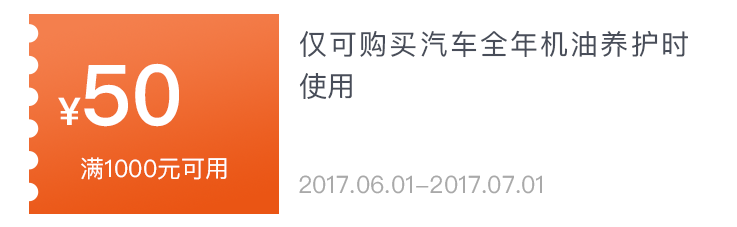
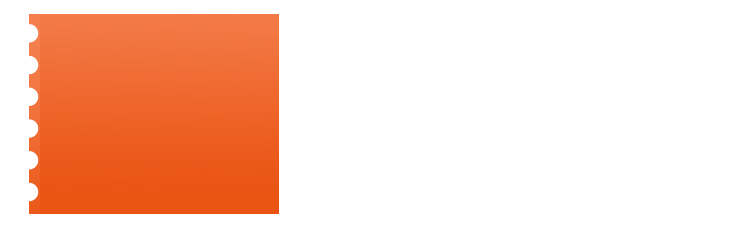
1

diff --git a/wechat/web/main/icenter/discount/discount_data.js b/wechat/web/main/icenter/discount/discount_data.js
@@ -7,4 +7,57 @@ $(function() {
 		例：$('#文件夹名_文件名 button.button')
 
 	*/
+	$$.post("http://api.cheshili.com.cn/CSL/User/QueryValueVoucherJson",
+		{},
+		function(txt){
+			if(txt.Status==0){
+				var useList=txt.Data.Status0;
+				var node="";
+				var data="";
+
+				var haveList=txt.Data.Status1;
+				var useNode="";
+				var useData="";
+
+				var dateList=txt.Data.Status2;
+				var dateNode="";
+				var dateData="";
+				
+				for(var i=0;i<useList.length;i++){
+					data=JSON.parse(useList[i].DataVoucherData);
+					node+='<div class="oneDiscount first">'+
+                '<img src="images/discount/50discount.png">'+
+                '<p class="discountMoney">￥'+data.Discount+'</p>'+
+                '<p class="discountAbove">满'+data.AboveNum+'元可用</p>'+
+                '<p class="discountDiscri">'+data.Descri+'</p>'+
+                '<p class="discountTime">'+$$.timeToStr(data.TimeStart)+'至'+$$.timeToStr(data.TimeEnd)+'</p>'+
+                '</div>';
+				}
+
+				for(var i=0;i<haveList.length;i++){
+					useData=JSON.parse(haveList[i].DataVoucherData);
+					useNode+='<div class="oneDiscount first">'+
+                '<img src="images/discount/haveUse.png">'+
+                '<p class="discountMoney">￥'+useData.Discount+'</p>'+
+                '<p class="discountAbove">满'+useData.AboveNum+'元可用</p>'+
+                '<p class="discountDiscri">'+useData.Descri+'</p>'+
+                '<p class="discountTime">'+$$.timeToStr(useData.TimeStart)+'至'+$$.timeToStr(useData.TimeEnd)+'</p>'+
+                '</div>';
+				}
+
+				for(var i=0;i<dateList.length;i++){
+					dateData=JSON.parse(dateList[i].DataVoucherData);
+					dateNode+='<div class="oneDiscount first">'+
+                '<img src="images/discount/haveDate.png">'+
+                '<p class="discountMoney">￥'+dateData.Discount+'</p>'+
+                '<p class="discountAbove">满'+dateData.AboveNum+'元可用</p>'+
+                '<p class="discountDiscri">'+dateData.Descri+'</p>'+
+                '<p class="discountTime">'+$$.timeToStr(dateData.TimeStart)+'至'+$$.timeToStr(dateData.TimeEnd)+'</p>'+
+                '</div>';
+				}
+
+
+				$page.find(".canUse").append(node);
+			}
+	});
 });

diff --git a/wechat/web/main/icenter/discount/discount_view.js b/wechat/web/main/icenter/discount/discount_view.js
@@ -1,38 +1,37 @@
 $(function() {
-	var $page = $('#icenter_discount'),
-    pageStr = 'icenter_discount';
-	/*
-		选择器要加上 #文件夹名_文件名
-		例：$('#文件夹名_文件名 button.button')
+    var $page = $('#icenter_discount'),
+        pageStr = 'icenter_discount';
+    /*
+    	选择器要加上 #文件夹名_文件名
+    	例：$('#文件夹名_文件名 button.button')
 
-		所有事件绑定到 $('#文件夹名_文件名')下
-		例子如下
-	*/
-	$$.setGoBack($page.find('div.header >a'));
-	
-	function loadDiscount(){
-			//获取内容
-			var contentIndex=$("#icenter_discount .navContent").children();
-			
-			//获取nav标签
-			var li=$("#icenter_discount  .nav ul li");
-			
-			//给每个li赋值index指向li的顺序数，通过顺序数改变内容的显示
-			for(var i=0;i<li.length;i++){
-				li[i].index=i;
-				li[i].onclick=function(){
-					for(var j=0;j<li.length;j++){
-						li[j].className="off";
-						contentIndex[j].style.display="none";
-						}
-					li[this.index].className="on";
-					contentIndex[this.index].style.display="block";
-					}
-				}	
-		}
+    	所有事件绑定到 $('#文件夹名_文件名')下
+    	例子如下
+    */
+    $page.find('div.header >a').click(function(){
+    	$$.redirect("icenter_pageHome.html");
+    });
 
-	loadDiscount();
+    function loadDiscount() {
+        //获取内容
+        var contentIndex = $("#icenter_discount .navContent").children();
+
+        //获取nav标签
+        var li = $("#icenter_discount  .nav ul li");
+
+        //给每个li赋值index指向li的顺序数，通过顺序数改变内容的显示
+        for (var i = 0; i < li.length; i++) {
+            li[i].index = i;
+            li[i].onclick = function() {
+                for (var j = 0; j < li.length; j++) {
+                    li[j].className = "off";
+                    contentIndex[j].style.display = "none";
+                }
+                li[this.index].className = "on";
+                contentIndex[this.index].style.display = "block";
+            };
+        }
+    }
+
+    loadDiscount();
 });
-
-	
-

diff --git a/wechat/web/main/icenter/logout/logout.css b/wechat/web/main/icenter/logout/logout.css
@@ -5,42 +5,37 @@
 	height: 100%;
 	background-color: #F0EFF5;
 }
+
 #icenter_logout header{
 	width: 100%;
-	height: 16vw;
+	height: 10vw;
 	background-color: #fff;
-	overflow: hidden;
-	position: relative;
+	text-align: center;
+	line-height: 10vw;
 }
+
 #icenter_logout header img{
 	width: 6.93vw;
-	height: 6.93vw;
-	display: inline-block;
-	margin: 4vw 0px 0px 5.33vw;
+	position: absolute;
+	left: 3vw;
+	top:1.5vw;
 }
+
 #icenter_logout header span{
-	display: inline-block;
-	font-size: 5.87vw;
-	font-family: "黑体";
+	font-size: 4.8vw;
 	color: #4E4D53;
-	vertical-align: top;
-    margin: 4.06vw 0px 0px 31vw;
 }
+
 #icenter_logout .photo_updata{
 	margin-top: 5.33vw;
 	margin-bottom: 3.33vw;
 	width: 100%;
-	height: 16vw;
+	height: 12vw;
 	background-color: #fff;
+	line-height: 12vw;
+    padding-left: 3vw;
 }
 #icenter_logout .redit_password{
-	width: 100%;
-	height: 16vw;
-	background-color: #fff;
-	overflow: hidden;
-	border-top: 1px solid #eee;
-}
-#icenter_logout .smart_word{
 	width: 100%;
 	height: 16vw;
 	background-color: #fff;
@@ -54,17 +49,15 @@
 	margin: 5.07vw 0px 0px 2.67vw;	
 }
 #icenter_logout .span_updata_1{
-	vertical-align: top;
-	display: inline-block;
-	font-size: 18px;
-	margin: 5.33vw 0px 0px 2.67vw;
+	font-size: 4vw;
+	margin: 3vw 0px 0px 2.67vw;
 }
 #icenter_logout .right_copy{
 	width: 2.67vw;
 	height: 4.27vw;
 	display: block;
 	float: right;
-	margin: 5.33vw 5.33vw 0px 0px;	
+	margin: 3.6vw 5.33vw 0px 0px;	
 }
 #icenter_logout .right_copy_2{
 	width: 2.67vw;
@@ -83,7 +76,7 @@
 	border: none;
 	outline: none;
 	position: absolute;
-	top: 50%;	
+	top: 20%;	
 	left: 5%;
 }
 #icenter_logout .logout_but_out{

diff --git a/wechat/web/main/icenter/logout/logout_view.js b/wechat/web/main/icenter/logout/logout_view.js
@@ -1,37 +1,4 @@
 
 !(function(){
-	$('.logout_but').on('click', function(){
-		$('.logout_but_out').css('display', 'block');
-		$('.logout_but_words').css('display', 'block')
-		$('.logout_prot_tips').css('display', 'block');
-		$('.logout_right').css('display', 'block');
-		$('.logout_wrong').css('display', 'block');
-	});
-	$('.logout_right').on('click', function(){
-		$$.refresh('logout/logout.html',0);
-		$('.logout_but_out').css('display', 'none');
-		$('.logout_but_words').css('display', 'none')
-		$('.logout_prot_tips').css('display', 'none');
-		$('.logout_right').css('display', 'none');
-		$('.logout_wrong').css('display', 'none');		
-	});
-	$('.logout_wrong').on('click', function(){
-		/*$$.delCookie('__TOKEN__');*/
-		$('.logout_but_words').css('display', 'none')
-		$('.logout_prot_tips').css('display', 'none');
-		$('.logout_right').css('display', 'none');
-		$('.logout_wrong').css('display', 'none');	
-		$('.logout_but_out').css('display', 'none');
-		$$.delCookie('__TOKEN__');
-        $$.delCookie('__UINFO__');
-        $$.refresh('removeBlinging/removeBlinging.html',1);	
-	});
-	$('.redit_password').on('click', function(){
-		/*$$.redirect('reditpassword/reditpassword.html');*/
-	});
-	$('.logout_back').on('click', function(){
-		$$.redirect('icenter/pageHome.html', {
-                    'fromGoBack': true
-        });
-	});	
+
 }());

diff --git a/wechat/web/main/icenter/discount/discount.html b/wechat/web/main/icenter/discount/discount.html
@@ -14,25 +14,15 @@
     
     <div class="navContent">
         <div class="canUse" style="display:block">
-            <div class="oneDiscount first">
-                <img src="images/discount/50discount.png">
-            </div>
             
-            <div class="oneDiscount">
-                <img src="images/discount/50discount.png">
-            </div>
         </div>
         
         <div class="haveUsed" style="display:none">
-            <div class="oneDiscount first">
-                <img src="images/discount/haveUse.png">
-            </div>
+
         </div>
         
         <div class="haveDate" style="display:none">
-            <div class="oneDiscount first">
-                <img src="images/discount/haveDate.png">
-            </div>
+            
         </div>
     </div>
 </div>

diff --git a/wechat/web/main/icenter/discount/discount.css b/wechat/web/main/icenter/discount/discount.css
@@ -73,3 +73,36 @@
 #icenter_discount .contentOff{
 	display:none;
 }
+
+#icenter_discount .oneDiscount{
+	position: relative;
+	margin-top: 3vw;
+}
+
+#icenter_discount .discountMoney{
+	position: absolute;
+	top:6vw;
+	left: 5vw;
+	font-size:8vw;
+	color:#fff;
+}
+#icenter_discount .discountAbove{
+	position: absolute;
+	top:20vw;
+	left: 10vw;
+	color:#fff;
+}
+#icenter_discount .discountDiscri{
+	position: absolute;
+	top:6vw;
+	left: 43vw;
+	width: 50vw;
+	font-size: 4vw;
+}
+#icenter_discount .discountTime{
+	position: absolute;
+	top:22vw;
+	left: 43vw;
+	color:#A5A5A5;
+	font-size:3.33vw;
+}

diff --git a/wechat/web/main/icenter/logout/logout.html b/wechat/web/main/icenter/logout/logout.html
@@ -7,10 +7,6 @@
 		<span class="span_updata_1">检查更新</span>
 		<img src="./images/center/right_copy.png" alt= "" class="right_copy" />
 	</div>
-	<div class="smart_word">
-		<span class="span_smart">鼓励一下</span>
-		<img src="./images/center/right_copy.png" alt="" class="right_copy_2" />
-	</div>
 	<button class="logout_but">解除绑定</button>
 	<div class="logout_but_out"></div>
 	<div class="logout_but_words">

diff --git a/wechat/web/main/shop/shopDetail/shopDetail_view.js b/wechat/web/main/shop/shopDetail/shopDetail_view.js
@@ -1,8 +1,8 @@
 $(function() {
-    var $page = $('#shop_shopDetaill'),
-        pageStr = 'shop_shopDetaill';
+    var $page = $('#shop_shopDetail'),
+        pageStr = 'shop_shopDetail';
 
-    $page.on("click",".back",function(){
+    $page.find(".back").click(function(){
     	$$.redirect("shop/shopList.html");
     }); 
 
